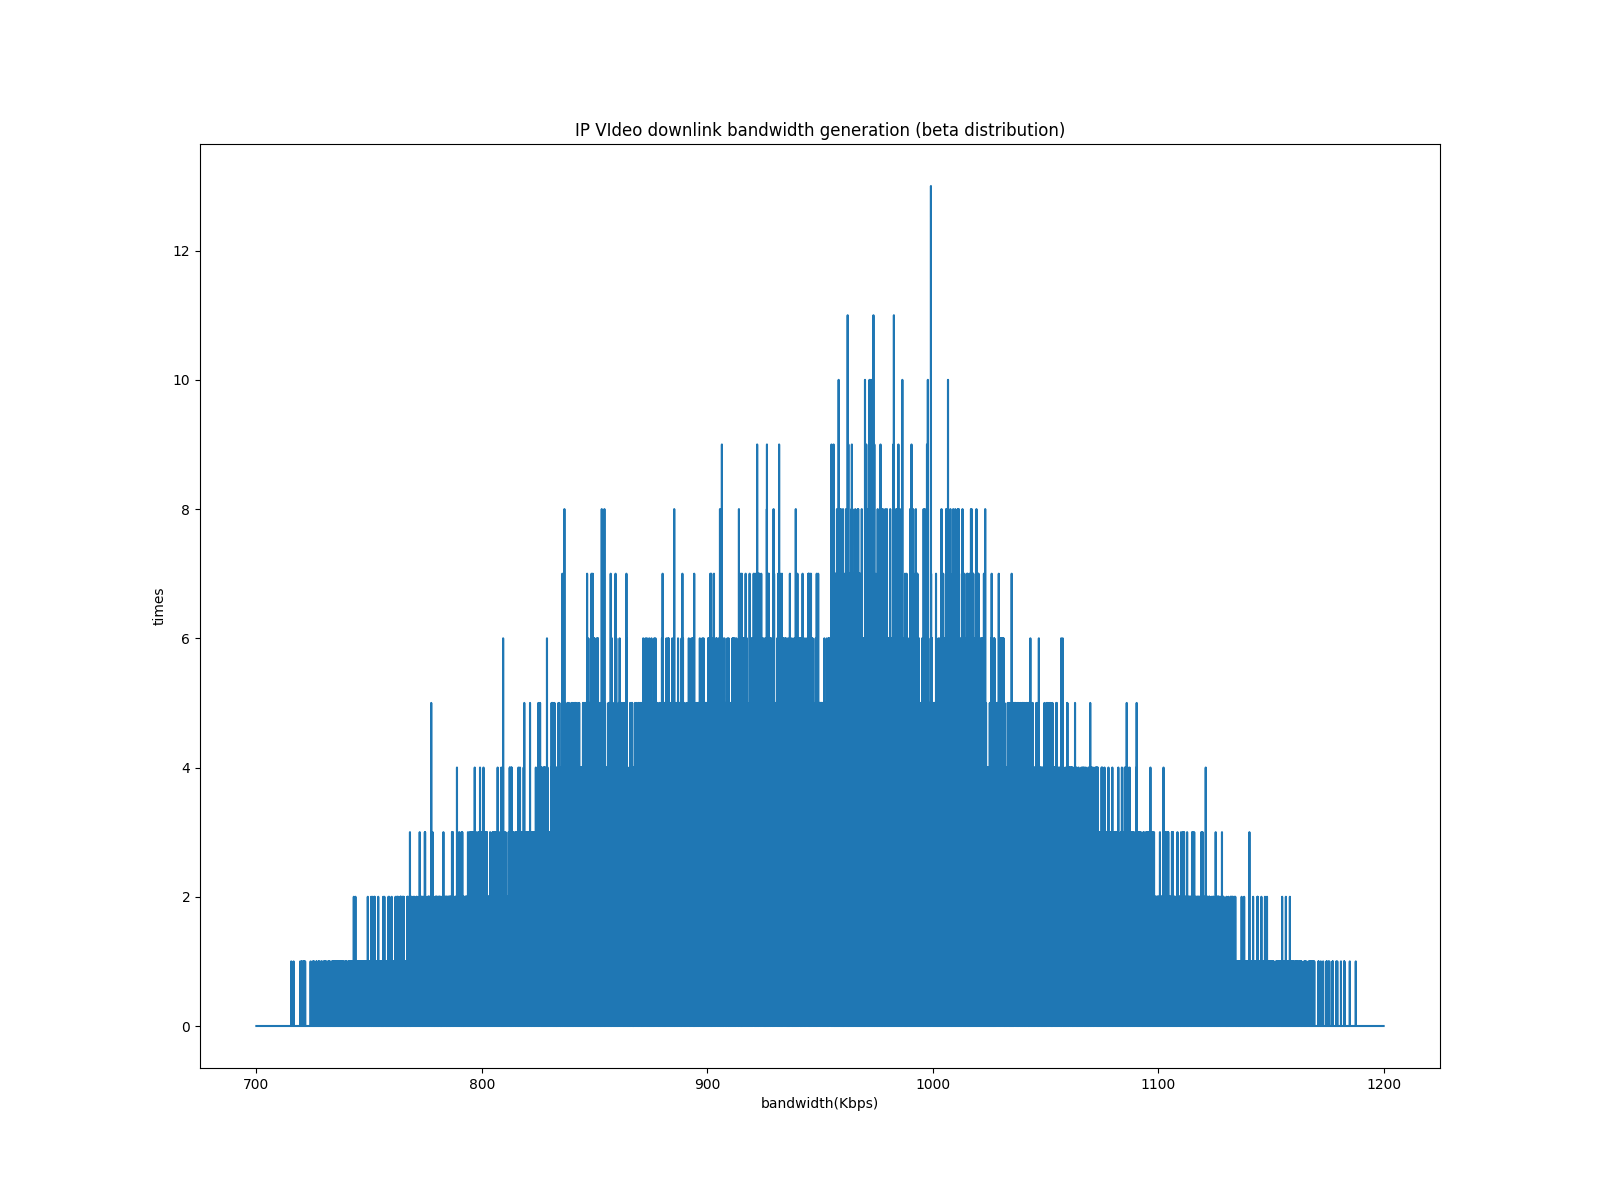
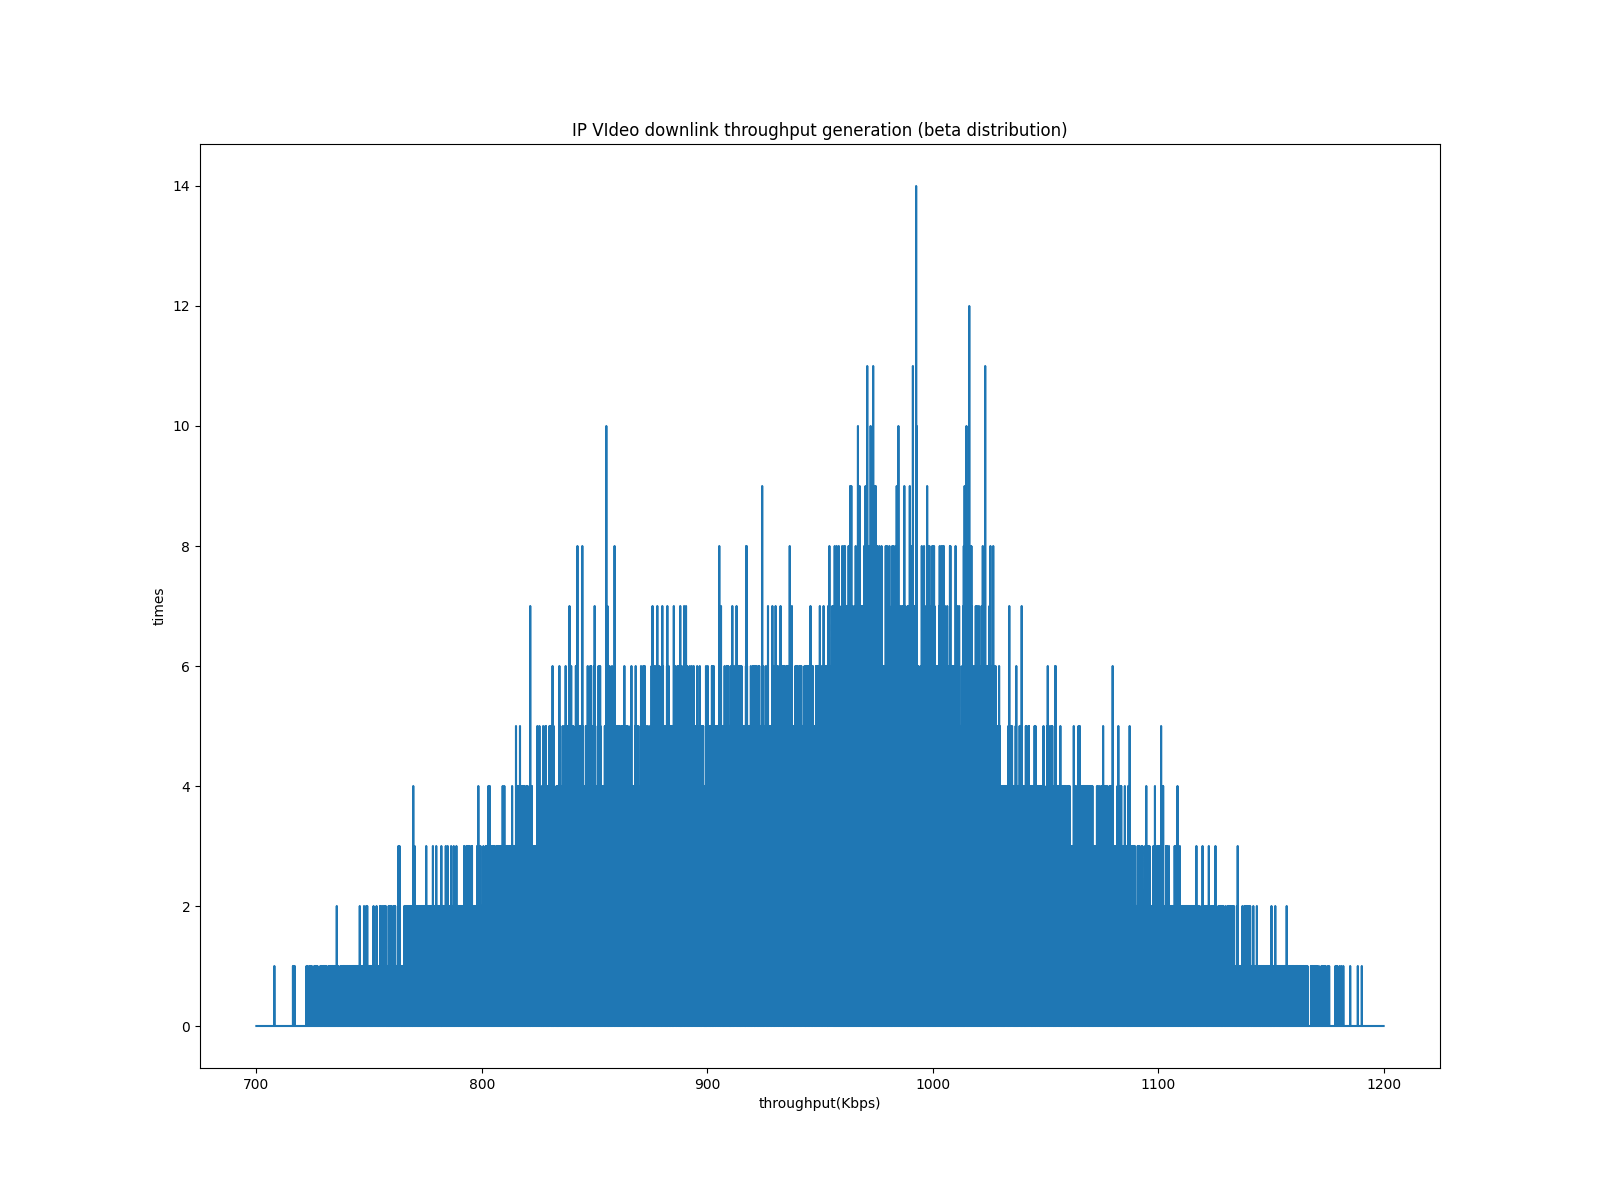
update dtp bw down utility function.

diff --git a/plot_distri_utilFunc.py b/plot_distri_utilFunc.py
@@ -22,50 +22,50 @@ def plot_beta(a, b, t, d, _slice):
 def beta_test():
     # user to vm bw
     plt.figure(figsize=figsize)
-    plt.title('User to VM bandwidth generation (beta distribution)')
-    plt.xlabel('bandwidth(Mbps)')
+    plt.title('User to VM throughput generation (beta distribution)')
+    plt.xlabel('throughput(Mbps)')
     plt.ylabel('times')
     plot_beta(beta_a, beta_b, beta_t, beta_d, 40000)
     plt.savefig(f'{dir}user_to_vm_bw')
     # VoIP uplink throughput
     plt.figure(figsize=figsize)
-    plt.title('VoIP uplink bandwidth generation (beta distribution)')
-    plt.xlabel('bandwidth(Kbps)')
+    plt.title('VoIP uplink throughput generation (beta distribution)')
+    plt.xlabel('throughput(Kbps)')
     plt.ylabel('times')
     plot_beta(*voip_bw_up_attr, 40000)
     plt.savefig(f'{dir}voip_bw_up')
     # VoIP downlink throughput
     plt.figure(figsize=figsize)
-    plt.title('VoIP downlink bandwidth generation (beta distribution)')
-    plt.xlabel('bandwidth(Kbps)')
+    plt.title('VoIP downlink throughput generation (beta distribution)')
+    plt.xlabel('throughput(Kbps)')
     plt.ylabel('times')
     plot_beta(*voip_bw_down_attr, 40000)
     plt.savefig(f'{dir}voip_bw_down')
     # IP VIdeo uplink throughput
     plt.figure(figsize=figsize)
-    plt.title('IP VIdeo uplink bandwidth generation (beta distribution)')
-    plt.xlabel('bandwidth(Kbps)')
+    plt.title('IP VIdeo uplink throughput generation (beta distribution)')
+    plt.xlabel('throughput(Kbps)')
     plt.ylabel('times')
     plot_beta(*ipVideo_bw_up_attr, 45000)
     plt.savefig(f'{dir}ipVideo_bw_up')
     # IP VIdeo downlink throughput
     plt.figure(figsize=figsize)
-    plt.title('IP VIdeo downlink bandwidth generation (beta distribution)')
-    plt.xlabel('bandwidth(Kbps)')
+    plt.title('IP VIdeo downlink throughput generation (beta distribution)')
+    plt.xlabel('throughput(Kbps)')
     plt.ylabel('times')
     plot_beta(*ipVideo_bw_down_attr, 50000)
     plt.savefig(f'{dir}ipVideo_bw_down')
     # FTP uplink throughput
     plt.figure(figsize=figsize)
-    plt.title('FTP uplink bandwidth generation (beta distribution)')
-    plt.xlabel('bandwidth(Kbps)')
+    plt.title('FTP uplink throughput generation (beta distribution)')
+    plt.xlabel('throughput(Kbps)')
     plt.ylabel('times')
     plot_beta(*ftp_bw_up_attr, 40000)
     plt.savefig(f'{dir}ftp_bw_up')
     # FTP downlink throughput
     plt.figure(figsize=figsize)
-    plt.title('FTP downlink bandwidth generation (beta distribution)')
-    plt.xlabel('bandwidth(Kbps)')
+    plt.title('FTP downlink throughput generation (beta distribution)')
+    plt.xlabel('throughput(Kbps)')
     plt.ylabel('times')
     plot_beta(*ftp_bw_down_attr, 70000)
     plt.savefig(f'{dir}ftp_bw_down')
@@ -85,21 +85,21 @@ def PT5_test():
     plt.figure(figsize=figsize)
     plt.xlabel('delay(ms)')
     plt.ylabel('times')
-    plt.title('User to cloud VM bandwidth generation (PT5 distribution)')
+    plt.title('User to cloud VM throughput generation (PT5 distribution)')
     plot_PT5(PT5_cloud_a, PT5_cloud_b, PT5_cloud_d, 20000)
     plt.savefig(f'{dir}user_to_vm_cloud_delay')
     # edge
     plt.figure(figsize=figsize)
     plt.xlabel('delay(ms)')
     plt.ylabel('times')
-    plt.title('User to edge VM bandwidth generation (PT5 distribution)')
+    plt.title('User to edge VM throughput generation (PT5 distribution)')
     plot_PT5(PT5_edge_a, PT5_edge_b, PT5_edge_d, 20000)
     plt.savefig(f'{dir}user_to_vm_edge_delay')
 
 def utility_func_bw_test(max_x, _slice, func):
     plt.figure(figsize=figsize)
     plt.title(f'{func.__qualname__} Utility Function')
-    plt.xlabel('bandwidth(Kbps)')
+    plt.xlabel('throughput(Kbps)')
     plt.ylabel('utility')
     x = np.arange(max_x / _slice, max_x, max_x / _slice)
     y = []

diff --git a/baselines/Random/task_deployment.py b/baselines/Random/task_deployment.py
@@ -76,7 +76,7 @@ class UtilityFunc:
         @staticmethod
         def bw_down(bw: float) -> float:
             bw = min(bw, ftp_bw_down_bmax)
-            return max_score * math.log10(bw / 80 + 1) / math.log10(ftp_bw_down_bmax / 80 + 1)
+            return max_score * math.log10(bw / 150 + 1) / math.log10(ftp_bw_down_bmax / 150 + 1)
 
         @staticmethod
         def cr(cr: float) -> float:

diff --git a/baselines/VM Load Balance/task_deployment.py b/baselines/VM Load Balance/task_deployment.py
@@ -76,7 +76,7 @@ class UtilityFunc:
         @staticmethod
         def bw_down(bw: float) -> float:
             bw = min(bw, ftp_bw_down_bmax)
-            return max_score * math.log10(bw / 80 + 1) / math.log10(ftp_bw_down_bmax / 80 + 1)
+            return max_score * math.log10(bw / 150 + 1) / math.log10(ftp_bw_down_bmax / 150 + 1)
 
         @staticmethod
         def cr(cr: float) -> float:

diff --git a/task_deployment.py b/task_deployment.py
@@ -77,7 +77,7 @@ class UtilityFunc:
         @staticmethod
         def bw_down(bw: float) -> float:
             bw = min(bw, ftp_bw_down_bmax)
-            return max_score * math.log10(bw / 80 + 1) / math.log10(ftp_bw_down_bmax / 80 + 1)
+            return max_score * math.log10(bw / 150 + 1) / math.log10(ftp_bw_down_bmax / 150 + 1)
 
         @staticmethod
         def cr(cr: float) -> float:

diff --git a/baselines/Random/parameters.py b/baselines/Random/parameters.py
@@ -37,7 +37,7 @@ cr_low = 1 * expected_min_vm_num
 cr_high = 1 * expected_max_vm_num
 
 # vm assignment
-mno_rate = 0.6
+mno_rate = 0.7
 _theta = 0.2
 _lambda = 0.3
 _mu = 0.7

diff --git a/baselines/VM Load Balance/parameters.py b/baselines/VM Load Balance/parameters.py
@@ -37,7 +37,7 @@ cr_low = 1 * expected_min_vm_num
 cr_high = 1 * expected_max_vm_num
 
 # vm assignment
-mno_rate = 0.6
+mno_rate = 0.7
 _theta = 0.2
 _lambda = 0.3
 _mu = 0.7

diff --git a/parameters.py b/parameters.py
@@ -37,7 +37,7 @@ cr_low = 1 * expected_min_vm_num
 cr_high = 1 * expected_max_vm_num
 
 # vm assignment
-mno_rate = 0.6
+mno_rate = 0.7
 _theta = 0.2
 _lambda = 0.3
 _mu = 0.7
